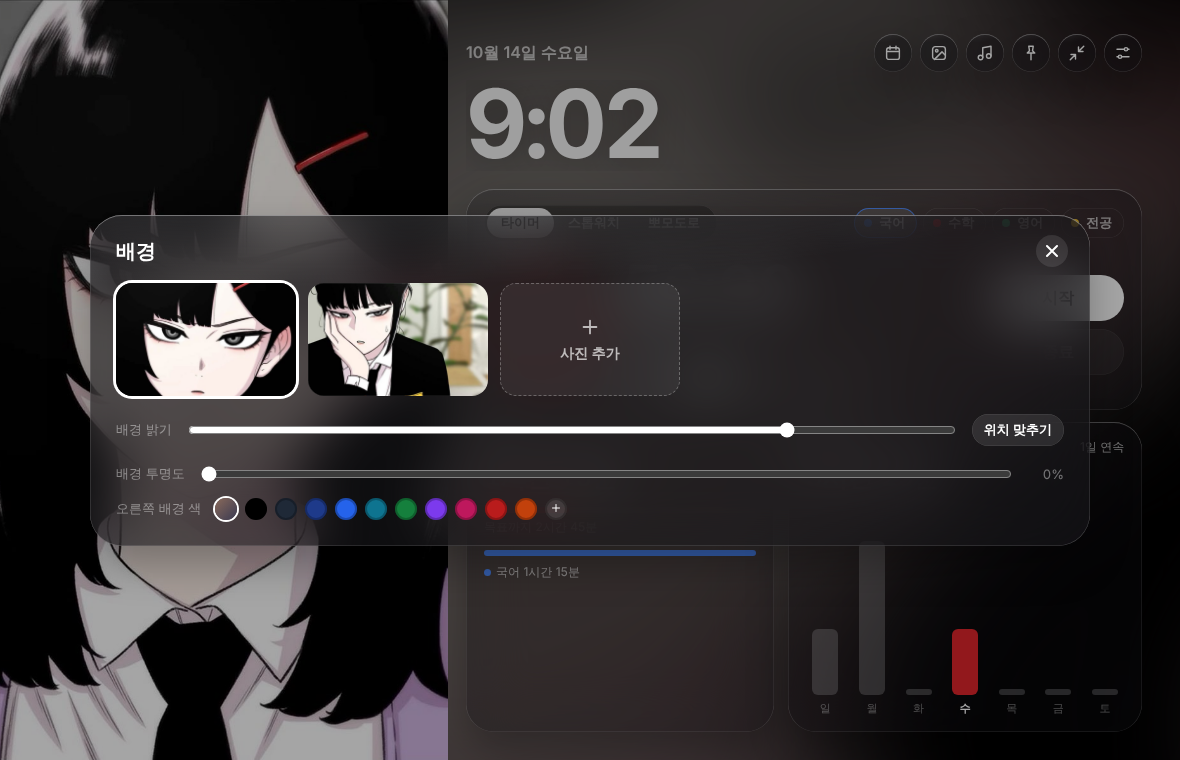
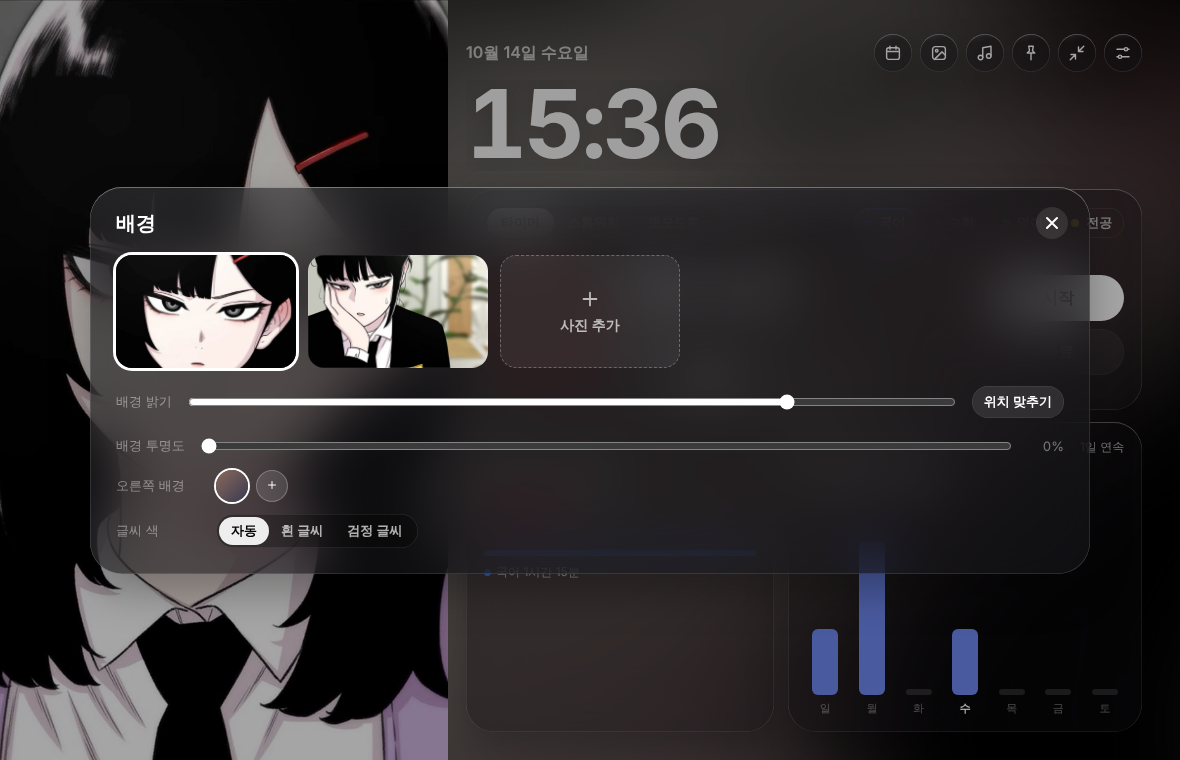
v3.01: 색 다루기 정리(글씨 색, 피그마식 색 고르기, 그래프 색) + 문서·스크린샷 갱신
Claude-Session: https://claude.ai/code/session_01PJXJ3ooBNum81K4yWgLcHa

diff --git a/CHANGELOG.md b/CHANGELOG.md
@@ -1,4 +1,4 @@
-# 바뀐 점과 이유 (v1 → v2.0 → v2.13)
+# 바뀐 점과 이유 (v1 → v2.0 → v2.01 → v3.01)
 
 v1을 실제로 쓰면서 나온 요청과 불편을 고친 기록이에요.
 "무엇이 바뀌었나"와 함께 **"왜 그렇게 했나"** 를 적었어요. 특히 시도했다가 뺀 기능은 왜 뺐는지 남겨 뒀어요.
@@ -146,6 +146,15 @@ v1을 실제로 쓰면서 나온 요청과 불편을 고친 기록이에요.
 | v2.0.9 | 과목 색: 설정에서 색 동그라미를 누르면 원하는 색을 직접 고르기. 새 과목은 기본 8색 중 안 쓴 색 → 다 쓰면 기존 색들과 가장 덜 겹치는 색 | 과목이 8개를 넘으면 같은 색이 반복돼서 구별이 안 됐어요. |
 | v2.0.10 | 간소화 창도 큰 창과 같은 배경(사진 흐림 또는 고른 색 · 밝기 · 투명도)을 쓰고, 사진과 화면을 깔끔하게 나눔 | 간소화하면 늘 어두운 기본 배경으로 바뀌어서 큰 창에서 맞춘 색·투명도가 사라졌어요. (예전에 간소화 창이 검게 변하던 진짜 원인은 '끌기'였고 v1.9.4에서 막았어요) |
 | v2.0.11 | 간소화 창을 아무 곳이나 끌어서 옮기기, 옮긴 자리 기억 | 오른쪽 위 고정이 불편하다는 요청. 예전에 끌면 검게 변하던 건 웹 화면이 '사진 끌어내기'로 받아들였기 때문이라, 이번엔 끌기를 웹 화면에 넘기지 않고 Mac 쪽에서 창을 직접 옮겨요. 끈 직후의 클릭은 무시해서 버튼이 잘못 눌리지 않아요. |
+
+---
+
+## v3.01 (v2.01 이후: 내부 버전 v2.02 ~ v2.13)
+
+> GitHub에는 `v3.01`로 올렸어요. 색을 다루는 방식(배경 · 글씨 · 과목 · 그래프)을 여러 번 써 보고 고쳐서, 큰 번호로 올렸어요. 아래는 만들면서 붙인 내부 번호와 그때그때의 이유예요. 중간에 시도했다가 바꾼 것(v2.05 큰 색 창, v2.07 테마 카드 · 과목 색으로 쌓은 막대)도 왜 바꿨는지 남겨 뒀어요.
+
+| 버전 | 바뀐 점 | 이유 |
+|---|---|---|
 | v2.02 | 간소화 창도 압정(항상 위에) 설정을 따름 | 간소화하면 압정을 꺼도 무조건 맨 위에 떠서, 다른 창을 눌러도 그 창이 앞으로 오지 않았어요. |
 | v2.03 | 압정(항상 위에)을 켜면 다른 앱의 전체 화면 위에도 뜸 | 인강을 전체 화면으로 볼 때도 타이머를 보고 싶다는 요청. 보통 Mac 창은 다른 앱의 전체 화면 위로 못 올라가서, 타이머 창을 '패널' 종류로 바꾸고 압정을 켤 때만 전체 화면 위에 뜨는 설정을 켜요. |
 | v2.04 | **글씨 색: 자동 / 흰 글씨 / 검정 글씨**. 자동은 오른쪽 배경이 밝으면(밝은 색 · 밝기 높음 · 투명도 낮음) 알아서 검정 글씨로 바꿔요. 간소화 창도 같이 바뀌어요 | 파스텔이나 흰색 배경을 고르면 흰 글씨가 잘 안 보였어요. 배경 색의 실제 밝기(밝기·투명도까지 반영)를 계산해서 글씨 색을 고르고, 직접 고정할 수도 있게 했어요. |

diff --git a/README.md b/README.md
@@ -1,4 +1,4 @@
-# 타이머 앱 v2
+# 타이머 앱 v3
 
 <img src="docs/icon.png" width="96" align="right" alt="앱 아이콘">
 
@@ -9,7 +9,7 @@
 ![메인 화면](docs/main.png)
 
 > 스크린샷의 기록은 예시 데이터예요. 처음 설치하면 0분부터 시작해요.
-> v1에서 무엇이 왜 바뀌었는지는 [CHANGELOG.md](CHANGELOG.md)에 정리했어요.
+> 버전마다 무엇이 왜 바뀌었는지는 [CHANGELOG.md](CHANGELOG.md)에 정리했어요.
 
 ---
 
@@ -265,6 +265,7 @@ v1을 쓰던 중이라면 같은 방법으로 다시 빌드하면 돼요. 기록
 | 울릴 알람 | 지금 고른 알람. **알람 관리**로 알람 창 열기 | |
 | 소리 크기 | 알람 크기. 움직이면 고른 알람으로 들려줘요 | 0(무음)~100% |
 | 노래 재생 시간 | 알람이 울리는 시간 | 30초, 1분, 3분, 확인 누를 때까지 |
+| 이번 주 막대 색 | **자동**(배경 색에 맞춰) 또는 기본 색 8개 중 하나. 아래 미리 보기에 실제 카드와 같은 색으로 바로 보여요 | 자동, 파랑·초록·노랑·주황·빨강·분홍·보라·회색 |
 | 내보내기 | 모든 기록을 CSV 파일로 저장 | |
 
 ### 과목 관리
@@ -351,6 +352,13 @@ Apple이 무료로 제공하는 미리 듣기는 30초짜리 한 구간뿐이라
 ---
 
 ## 버전
+
+- **v3.01** (2026-10-14): 색 다루기를 새로 정리한 버전.
+  - **글씨 색** 자동/흰 글씨/검정 글씨: 밝은 배경이면 자동으로 검정 글씨.
+  - **오른쪽 배경**은 한 줄로: 사진 · 저장한 색 · **+**. +를 누르면 **피그마식 색 고르기**(채도·밝기 사각형, 무지개 막대, HEX, 기본 색 8개, 파스텔 12개)가 뜨고, 고른 색이 줄에 저장돼요. 과목 색도 같은 창으로 골라요.
+  - **이번 주 그래프**는 한 가지 색 막대. 색은 배경에 맞춰 자동으로 바뀌고, 설정에서 기본 색 8개 중 고를 수도 있어요. 설정 안 미리 보기가 실제 카드와 같은 색으로 보여요.
+  - 배경 색이 저장돼 있으면 앱이 검은 화면으로 멈추던 문제 수정.
+  - 아래 v2.04~v2.13은 v3.01을 만들면서 붙인 내부 번호예요.
 
 - **v2.13** (2026-10-14): 그래프 미리 보기 색을 실제 카드와 같은 색으로 계산.
 - **v2.12** (2026-10-14): 그래프 미리 보기가 실제 카드와 같은 느낌으로.

diff --git a/make.md b/make.md
@@ -1,4 +1,4 @@
-# 타이머 앱 v2 개발 가이드
+# 타이머 앱 v3 개발 가이드
 
 이 문서는 앱을 직접 고치고 다시 빌드하려는 사람을 위한 설명이에요.
 앱 사용법은 [README.md](README.md), v1에서 바뀐 점과 이유는 [CHANGELOG.md](CHANGELOG.md)를 보세요.
@@ -66,7 +66,7 @@ study-timer/
 ├── make.md                 이 문서
 ├── build.sh                빌드 스크립트
 ├── build.command           Finder에서 더블클릭용 (build.sh --install 실행)
-├── CHANGELOG.md            v1 → v2.0 바뀐 점과 이유
+├── CHANGELOG.md            버전별 바뀐 점과 이유
 ├── src/
 │   └── main.swift          Swift 껍데기 전부 (약 840줄)
 ├── app/
@@ -554,6 +554,8 @@ touch ~/Desktop/캐릭터\ 타이머.app && killall Dock
 6. v1.1~v1.7: 맨 위 알림 창, 유튜브·노래 파일 알람, 간소화 모드, 소리 크기 미리 듣기 → 유튜브 자동 재생이 끝까지 불안정
 7. v1.8~v1.9: 알람을 앱에 든 소리 + Apple Music 30초 미리 듣기로 정리, 간소화 창 고정
 8. **v2.0**: 알림 문구 다듬기, 안 쓰는 코드 정리, 문서 정리 (자세한 이유는 [CHANGELOG.md](CHANGELOG.md))
+9. **v2.01**: 배경 위치·색·밝기·투명도, 달력 크기 고정, 과목 +N, 간소화 창 끌어서 옮기기
+10. **v3.01**: 글씨 색, 피그마식 색 고르기 + 저장한 색, 이번 주 그래프 색(자동/기본 색)과 미리 보기
 
 ### 다음에 해 볼 만한 것
 
